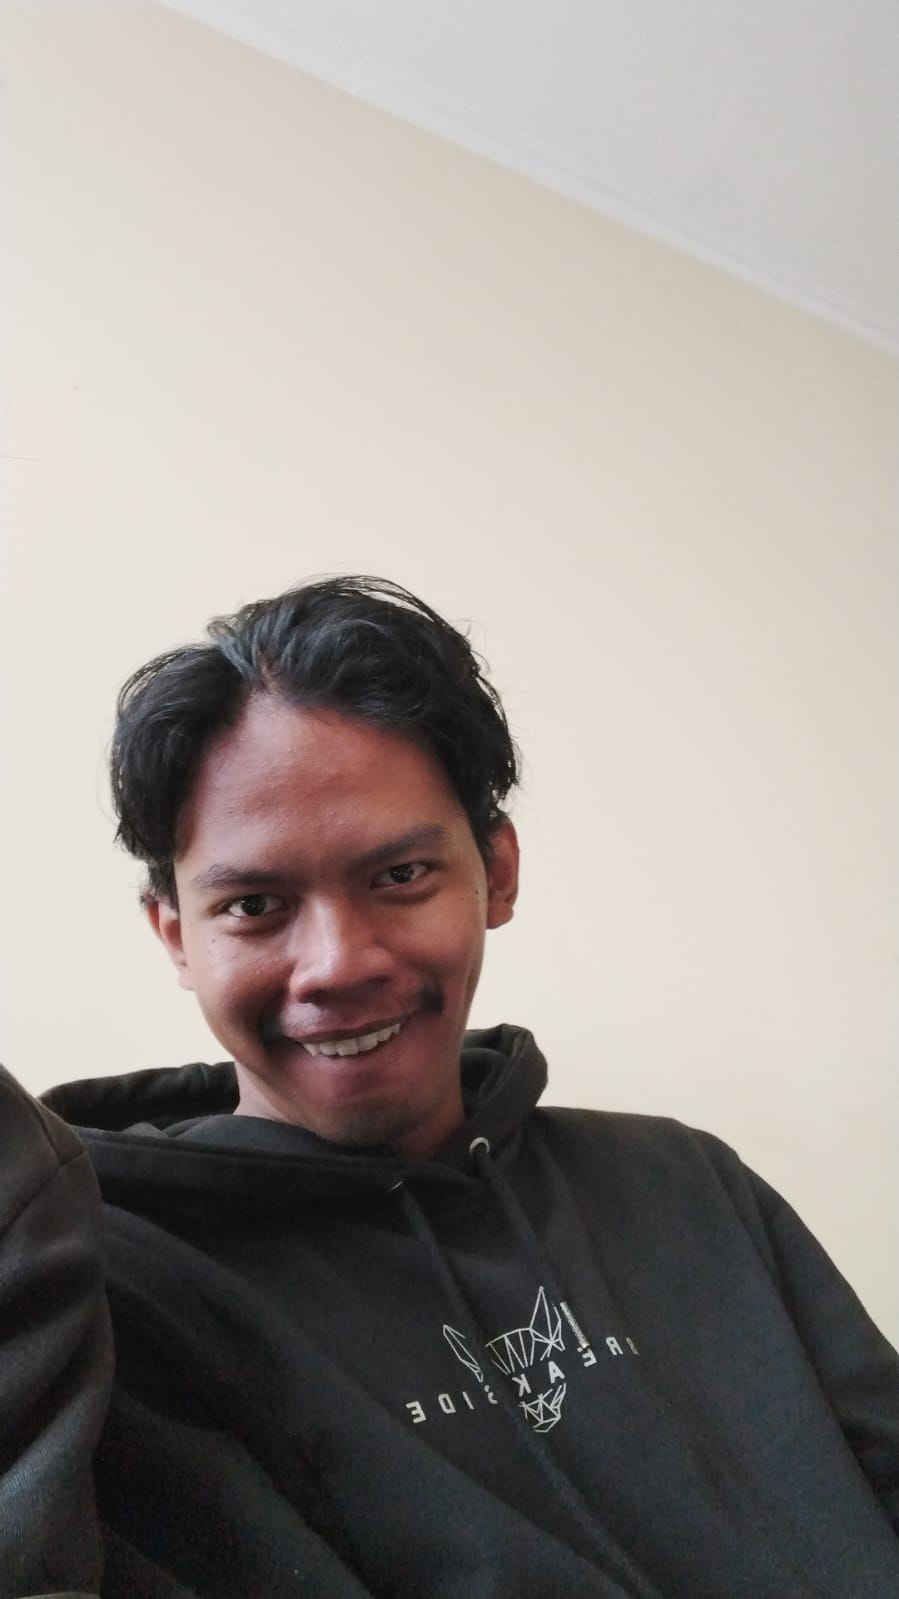
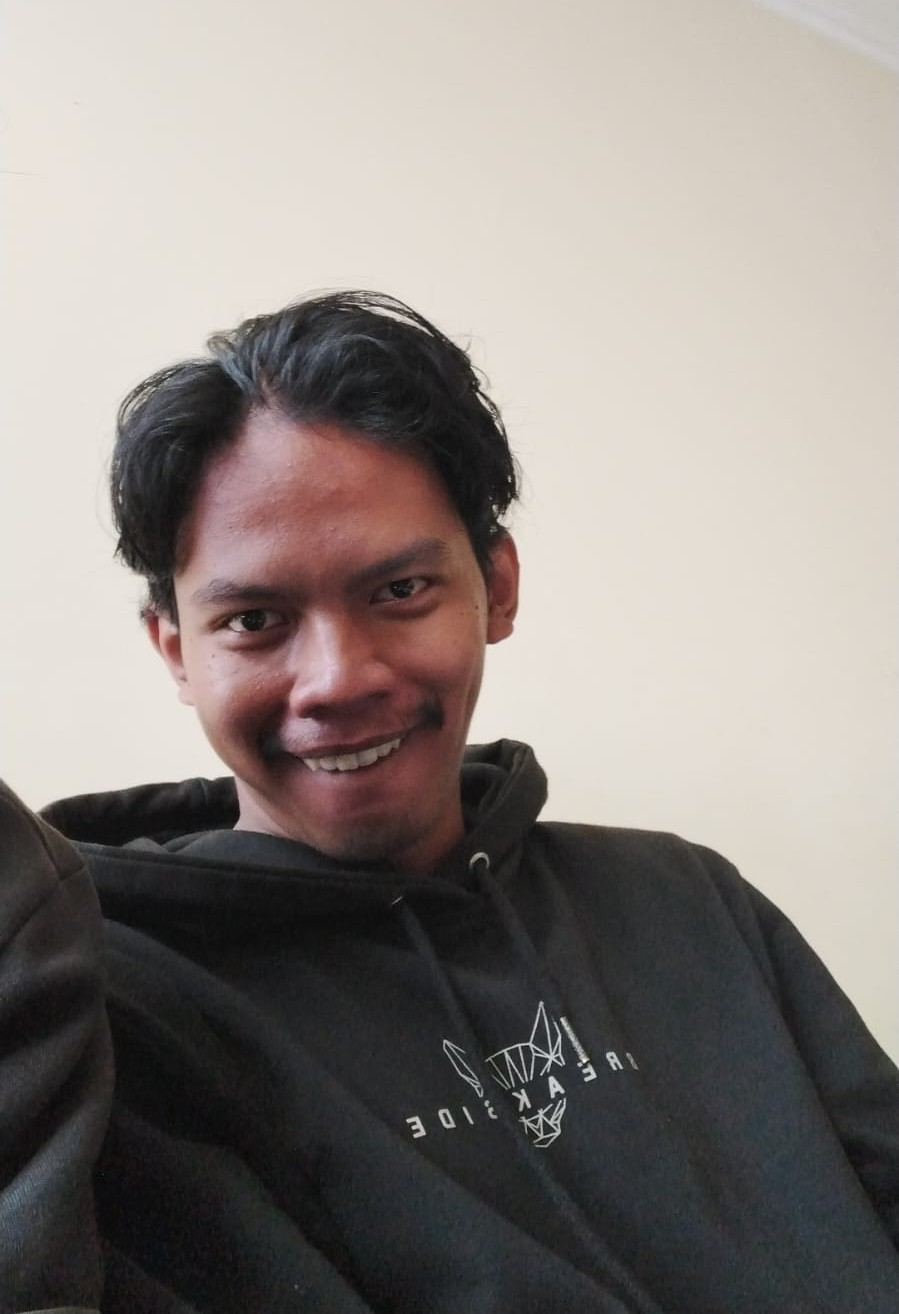
update profil dap

diff --git a/anggota/dava.html b/anggota/dava.html
@@ -1,0 +1,53 @@
+<!DOCTYPE html>
+<html lang="id">
+<head>
+    <meta charset="UTF-8" />
+    <meta name="viewport" content="width=device-width, initial-scale=1.0"/>
+    <title>Dava (-) - Yayasan Zulka</title>
+    <link rel="stylesheet" href="../css/styles.css" />
+    <link rel="stylesheet" href="https://cdnjs.cloudflare.com/ajax/libs/font-awesome/6.4.0/css/all.min.css">
+    <link rel="icon" type="image/jpg" href="../asset/img/icon.jpg"/>
+</head>
+<body>
+
+    <!-- Header -->
+    <header class="header">
+        <div class="logo">
+            <img src="../asset/img/logo.png" alt="Logo Yayasan Zulka">
+        </div>
+        <nav class="nav-menu" id="nav-menu">
+            <a href="../index.html">Home</a>
+            <a href="../anggota.html" class="current">Member</a>
+            <a href="../galeri.html">Gallery</a>
+        </nav>
+        <div class="menu-btn" id="menu-btn">&#9776;</div>
+    </header>
+
+    <section class="profile-orang">
+        <div class="container-profile">
+            <img src="../asset/img/anggota-dava.jpg" alt="Dava">
+            <div class="info-profile">
+                <span class="role">Anggota</span>
+                <h2>Dava Nalendra</h2>
+                <p>Dava, Fans Chelsea</p>
+                <div class="sosial-link">
+                    <a href="https://www.instagram.com/"><i class="fab fa-instagram"></i></a>
+                </div>
+            </div>
+        </div>
+    </section>
+
+    <hr class="pemisah" />
+
+    <!-- Galeri Foto -->
+    <section class="galeri-personal">
+        <div class="foto-grid-personal">
+            <img src="../asset/img/dava1.jpg" alt="Foto 1">
+            <img src="../asset/img/dava2.jpg" alt="Foto 2">
+            <img src="../asset/img/dava3.jpg" alt="Foto 3">
+    </section>
+
+    <script src="../js/script.js"></script>
+
+</body>
+</html>

diff --git a/anggota.html b/anggota.html
@@ -55,7 +55,7 @@
                 <div class="anggota-nama">Adun</div>
             </a>
             <a href="anggota/dava.html" class="anggota-card">
-                <img src="asset/img/anggota.png" alt="Dava Nalendra">
+                <img src="asset/img/anggota-dava.jpg" alt="Dava Nalendra">
                 <div class="anggota-nama">Dava</div>
             </a>
             <a href="anggota/yafie.html" class="anggota-card">
